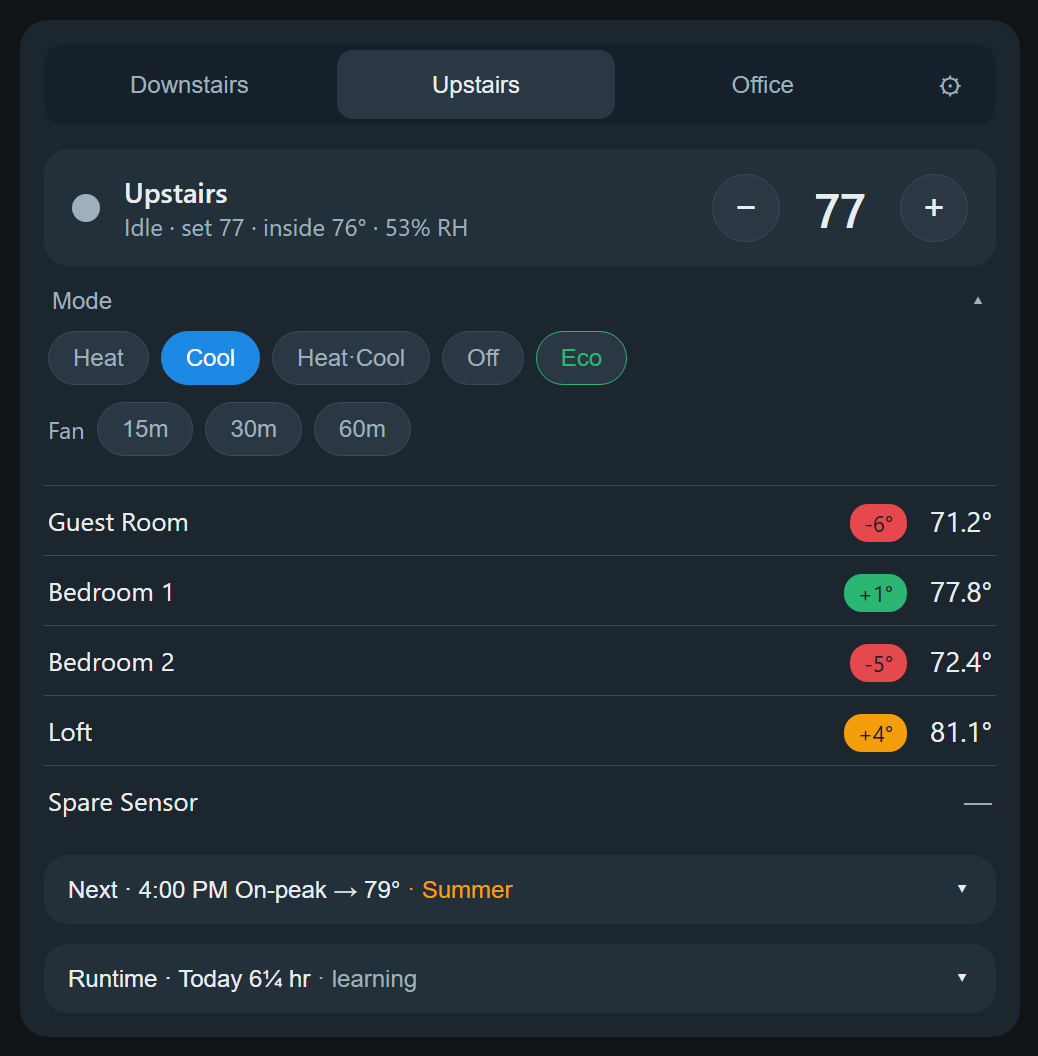
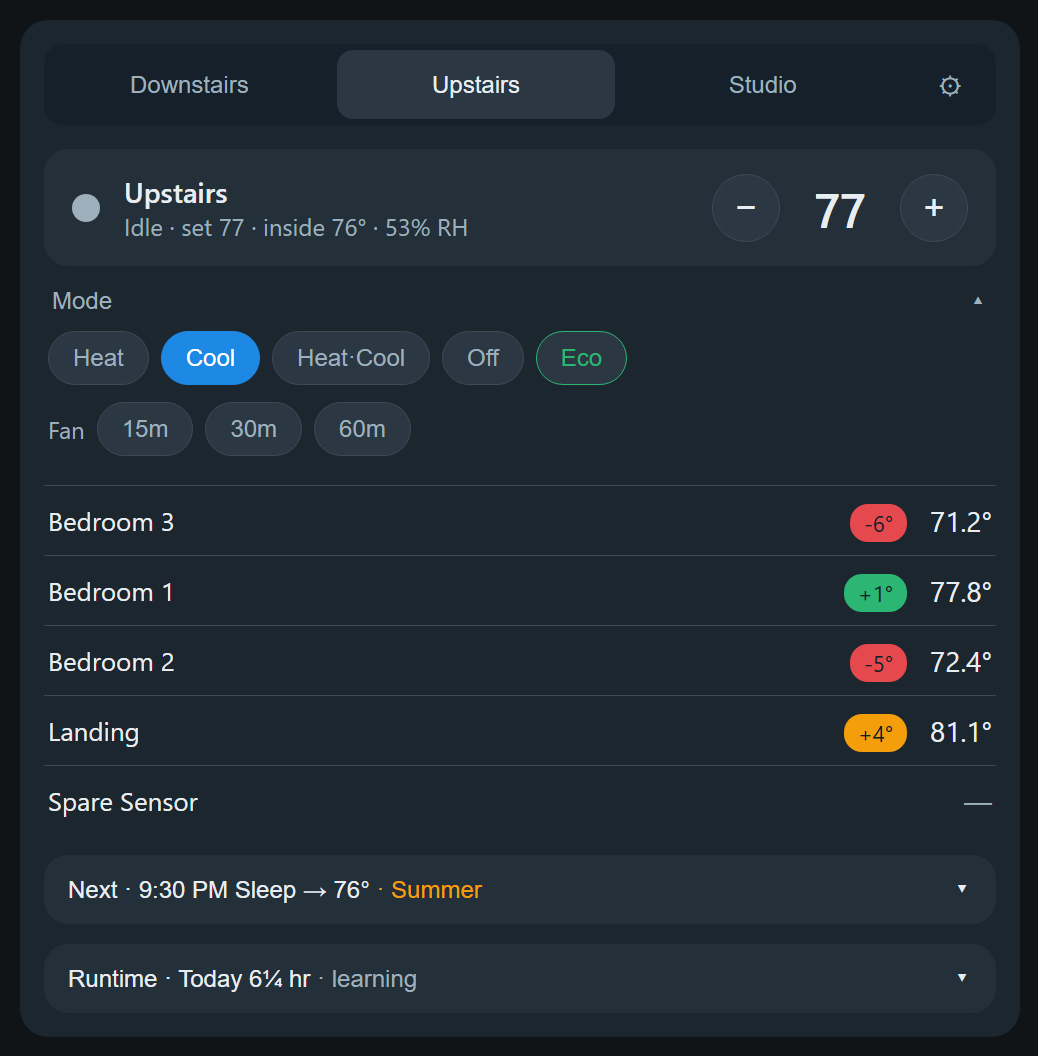
Scrub real entity ids and room names from the example house
The earlier pass took out names, an address and an email. It left behind
something subtler: the documentation example was the maintainer's actual house.
Real room names, and entity ids that exist on the live instance, published in
the README as the config you should copy.

That matters more than it looks. A real entity id is a fingerprint. Anyone
holding one can correlate this repository against a dashboard screenshot, a
support paste, or a diagnostics blob shared later, and two harmless things
become one identifying thing.

So the example house is now invented rather than sanitised. A studio replaces
the office, numbered bedrooms and a landing replace the real rooms, and the
weather and fan-guard helpers get generic ids. Confirmed against the live
instance rather than guessed: two of the sensor ids in the README were real,
including one whose siblings are still visible in the entity registry.

Test fixtures keep an apostrophe zone, because the slugify divergence it covers
is a real bug that bit a live install, and that name belongs to nobody.

Screenshots are regenerated from the harness rather than edited, since they are
renders of the fixture and would otherwise drift from it. Re-shooting caught a
hardcoded zone slug in the harness that the rename had missed, which had
quietly dropped a zone from the settings screenshot.

Schedule block times stay as they are, by the owner's decision: a thermostat
schedule on its own discloses nothing worth protecting.

diff --git a/tests/deviation.test.ts b/tests/deviation.test.ts
@@ -24,7 +24,7 @@ describe('deviationColor', () => {
     expect(deviationColor(71 - 76)).toBe('red'); // Guest -5
     expect(deviationColor(77 - 76)).toBe('green'); // bedroom 1, +1
     expect(deviationColor(72 - 76)).toBe('amber'); // bedroom 2, -4
-    expect(deviationColor(81 - 76)).toBe('red'); // Loft +5
+    expect(deviationColor(81 - 76)).toBe('red'); // Landing +5
   });
 });
 
@@ -65,12 +65,12 @@ describe('formatRoomTemp', () => {
 describe('room sensor labels (normalizeRoomSensors)', () => {
   it('accepts bare ids, {entity, name} rows, and a mix of both', () => {
     expect(normalizeRoomSensors(['sensor.a'])).toEqual([{ entity: 'sensor.a' }]);
-    expect(normalizeRoomSensors([{ entity: 'sensor.a', name: 'Guest Room' }])).toEqual([
-      { entity: 'sensor.a', name: 'Guest Room' },
+    expect(normalizeRoomSensors([{ entity: 'sensor.a', name: 'Bedroom 3' }])).toEqual([
+      { entity: 'sensor.a', name: 'Bedroom 3' },
     ]);
-    expect(normalizeRoomSensors(['sensor.a', { entity: 'sensor.b', name: 'Loft' }])).toEqual([
+    expect(normalizeRoomSensors(['sensor.a', { entity: 'sensor.b', name: 'Landing' }])).toEqual([
       { entity: 'sensor.a' },
-      { entity: 'sensor.b', name: 'Loft' },
+      { entity: 'sensor.b', name: 'Landing' },
     ]);
   });
 

diff --git a/dev/main.ts b/dev/main.ts
@@ -25,14 +25,14 @@ const config: MzcsCardConfig = {
       entity: 'climate.upstairs_thermostat',
       name: 'Upstairs',
       room_sensors: [
-        { entity: 'sensor.guest_room_temperature', name: 'Guest Room' },
+        { entity: 'sensor.bedroom_3_temperature', name: 'Bedroom 3' },
         { entity: 'sensor.bedroom_1_temperature', name: 'Bedroom 1' },
         'sensor.bedroom_2_temperature',
-        'sensor.loft_temperature',
+        'sensor.landing_temperature',
         'sensor.dead_sensor_temperature',
       ],
     },
-    { entity: 'climate.owner_s_office_mini_split', name: 'Office' },
+    { entity: 'climate.studio_mini_split', name: 'Studio' },
   ],
 };
 
@@ -67,7 +67,7 @@ if (shot) {
   // A realistic post-Apply install, so the Setup/Manage screenshot shows the
   // per-zone kill switches (all OFF, exactly as a fresh Apply leaves them)
   // and the full tuning set rather than the sparse fixture subset.
-  for (const slug of ['downstairs', 'upstairs', 'office']) {
+  for (const slug of ['downstairs', 'upstairs', 'studio']) {
     hass.set(`input_boolean.climate_${slug}_enabled`, {
       state: 'off',
       attributes: { friendly_name: `Climate ${slug} enabled` },

diff --git a/tests/provision-exec.test.ts b/tests/provision-exec.test.ts
@@ -488,10 +488,10 @@ describe('automation signatures + safe regeneration', () => {
 
   it('fan guard is part of the fan automation signature and payload', () => {
     const un = automationSignatures('climate', ZONES, SEASONS);
-    const gu = automationSignatures('climate', ZONES, SEASONS, 'input_boolean.help_hvac_fan');
+    const gu = automationSignatures('climate', ZONES, SEASONS, 'input_boolean.hvac_fan_guard');
     expect(gu['climate_mzcs_fan_timer_upstairs']).not.toBe(un['climate_mzcs_fan_timer_upstairs']);
-    const payload = fanAutomation('climate', ZONES[0]!, 'input_boolean.help_hvac_fan');
-    expect(JSON.stringify(payload)).toContain('input_boolean.help_hvac_fan');
+    const payload = fanAutomation('climate', ZONES[0]!, 'input_boolean.hvac_fan_guard');
+    expect(JSON.stringify(payload)).toContain('input_boolean.hvac_fan_guard');
   });
 
   it('generated payloads verify against their own embedded signature', () => {

diff --git a/tests/naming.test.ts b/tests/naming.test.ts
@@ -54,7 +54,7 @@ describe('slugify', () => {
     expect(slugify('Upstairs')).toBe('upstairs');
     expect(slugify("Owner's Office")).toBe('owners_office');
     expect(slugify('  Down  Stairs ')).toBe('down_stairs');
-    expect(slugify('Loft #2')).toBe('loft_2');
+    expect(slugify('Landing #2')).toBe('landing_2');
   });
 });
 

diff --git a/CONTRACT.md b/CONTRACT.md
@@ -20,7 +20,7 @@ are contract-side: they document shipped v0.9.0 behavior; no object shapes chang
 
 ## 2. Zones and day-type granularity
 
-- 1-4 zones. Zone key = slug of display name (`upstairs`, `downstairs`, `office`).
+- 1-4 zones. Zone key = slug of display name (`upstairs`, `downstairs`, `studio`).
 - Per zone x season, day granularity is one of:
   - `all` - one block set (keys: `all`)
   - `wdwe` - two sets (keys: `wd`, `we`)
@@ -127,15 +127,15 @@ prefix: climate
 zones:
   - entity: climate.upstairs_thermostat
     name: Upstairs
-    room_sensors: [sensor.guest_room_temperature, ...]
+    room_sensors: [sensor.bedroom_3_temperature, ...]
   - entity: climate.downstairs_thermostat
     name: Downstairs
 seasons:
   - { key: summer, name: Summer, default_mode: cool }
   - { key: winter, name: Winter, default_mode: heat_cool }
 season_switch: manual        # manual (semi | full reserved for the post-v1 recommender)
-weather_entity: weather.openweathermap   # optional; enables the CDD learning chain
-features: { fan_timer: [15, 30, 60], anomaly_alerts: true, fan_guard: input_boolean.help_hvac_fan }
+weather_entity: weather.forecast_home   # optional; enables the CDD learning chain
+features: { fan_timer: [15, 30, 60], anomaly_alerts: true, fan_guard: input_boolean.hvac_fan_guard }
 # features.eco_preset: 'away'   # optional: standby preset the engine respects ('eco' default;
 #                               # false disables the stand-down gate)
 ```

diff --git a/CLAUDE.md b/CLAUDE.md
@@ -15,7 +15,7 @@ in the commit; never delete a check to get a commit through.
 ### Never commit
 
 - **Real entity ids, area names, or device names from a live instance.** Fixtures use neutral
-  names (`bedroom_1`, `Owner's Office`) for exactly this reason. If you capture live state for a
+  names (`bedroom_1`, `Studio`) for exactly this reason. If you capture live state for a
   fixture, neutralise it in the same edit, not later.
 - **Anything identifying the household**: personal names, a LAN address or hostname, an email,
   a timezone or utility that narrows the location, real occupancy hours.

diff --git a/README.md b/README.md
@@ -432,9 +432,9 @@ zones:
   - name: Upstairs
     entity: climate.upstairs_thermostat
     room_sensors:                     # optional, drives deviation chips
-      - sensor.guest_room_temperature           # uses the entity's own name
-      - entity: sensor.zb_loft_temp_sensor      # or label it yourself
-        name: Loft
+      - sensor.bedroom_3_temperature           # uses the entity's own name
+      - entity: sensor.zb_landing_temp_sensor      # or label it yourself
+        name: Landing
 seasons:
   - name: Summer
     default_mode: cool                # cool | heat | heat_cool | off
